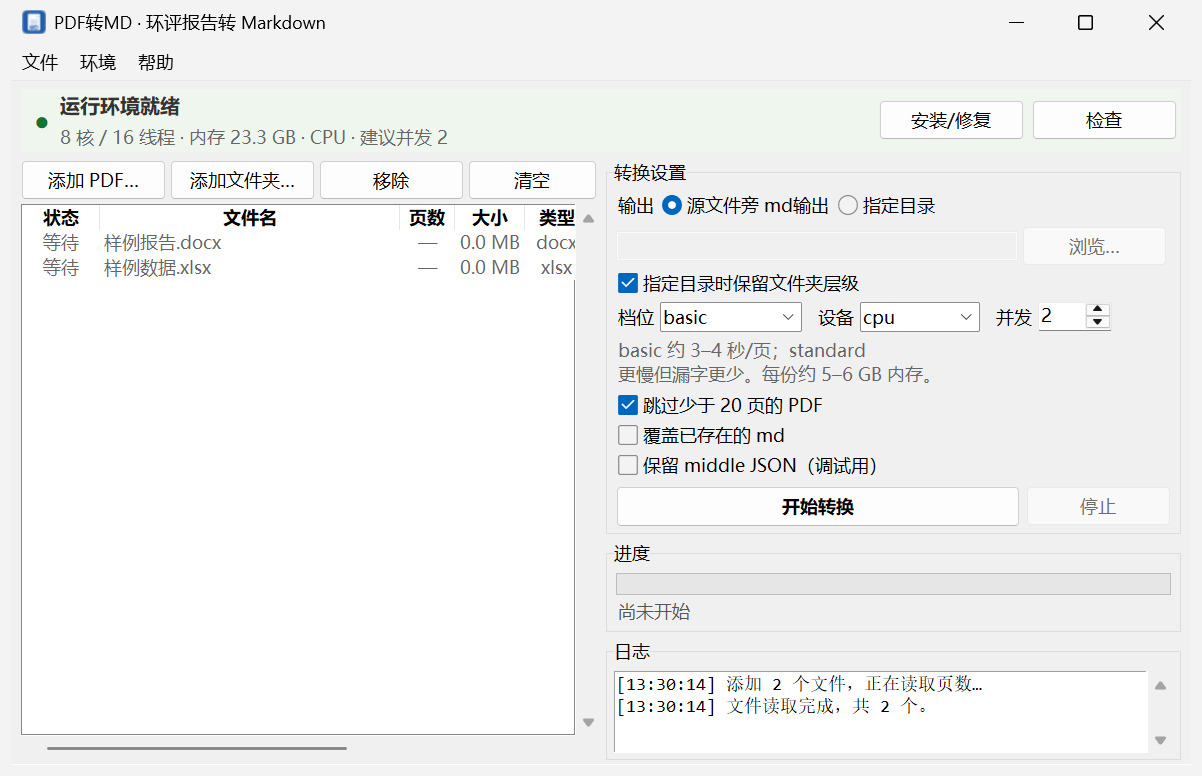
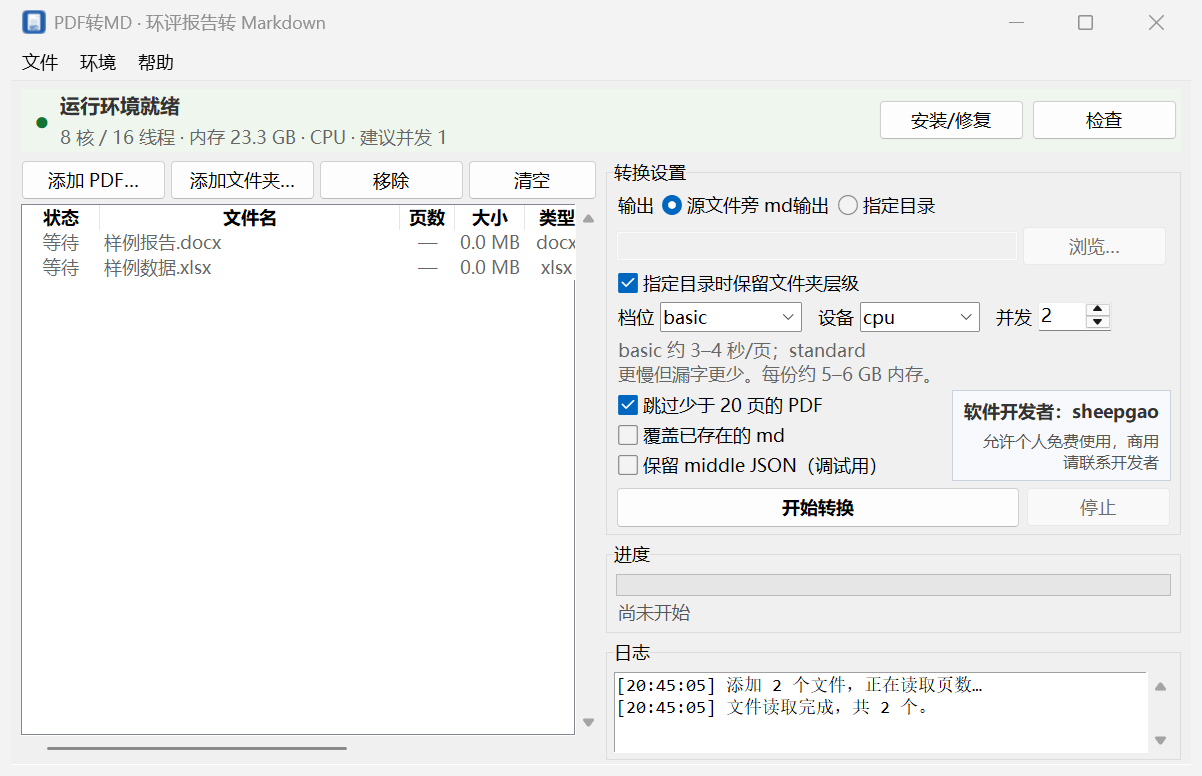
feat: add developer declaration and PolyForm Noncommercial license

diff --git a/gui/app.py b/gui/app.py
@@ -357,12 +357,27 @@ class App(tk.Tk):
         self.skip_var = tk.BooleanVar(value=True)
         self.overwrite_var = tk.BooleanVar(value=False)
         self.keep_json_var = tk.BooleanVar(value=False)
-        ttk.Checkbutton(st, text="跳过少于 20 页的 PDF",
-                        variable=self.skip_var).pack(anchor="w", padx=8)
-        ttk.Checkbutton(st, text="覆盖已存在的 md",
-                        variable=self.overwrite_var).pack(anchor="w", padx=8)
-        ttk.Checkbutton(st, text="保留 middle JSON（调试用）",
-                        variable=self.keep_json_var).pack(anchor="w", padx=8)
+        opts = ttk.Frame(st)
+        opts.pack(fill="x", padx=8)
+        left = ttk.Frame(opts)
+        left.pack(side="left", fill="y")
+        ttk.Checkbutton(left, text="跳过少于 20 页的 PDF",
+                        variable=self.skip_var).pack(anchor="w")
+        ttk.Checkbutton(left, text="覆盖已存在的 md",
+                        variable=self.overwrite_var).pack(anchor="w")
+        ttk.Checkbutton(left, text="保留 middle JSON（调试用）",
+                        variable=self.keep_json_var).pack(anchor="w")
+
+        decl = tk.Frame(opts, bg="#f7f9fc", highlightbackground="#c9d3e0",
+                        highlightthickness=1)
+        decl.pack(side="right", anchor="n", padx=(14, 0))
+        tk.Label(decl, text="软件开发者：sheepgao", bg="#f7f9fc",
+                 fg="#333", font=("Microsoft YaHei UI", 9, "bold"),
+                 anchor="e").pack(anchor="e", padx=8, pady=(5, 0))
+        tk.Label(decl, text="允许个人免费使用，商用请联系开发者",
+                 bg="#f7f9fc", fg="#555", font=("Microsoft YaHei UI", 8),
+                 anchor="e", justify="right", wraplength=190).pack(
+            anchor="e", padx=8, pady=(0, 5))
 
         btns = ttk.Frame(st)
         btns.pack(fill="x", padx=8, pady=6)

diff --git a/build_gui.py b/build_gui.py
@@ -20,7 +20,7 @@ def main():
     if (HERE / "使用说明_GUI.txt").exists():
         shutil.copyfile(HERE / "使用说明_GUI.txt", DIST / "使用说明.txt")
     # PyInstaller 的 datas 会进 _internal；给人和 AI 看的文档复制到包根目录
-    for name in ("AI调用说明.md", "AI调用示例.py", "API接口.md"):
+    for name in ("AI调用说明.md", "AI调用示例.py", "API接口.md", "LICENSE"):
         src = HERE / name
         if src.exists():
             shutil.copyfile(src, DIST / name)

diff --git a/README.md b/README.md
@@ -8,6 +8,14 @@
 - 全程本地处理，装好后可离线
 - 支持中文路径
 
+## 使用声明
+
+- **软件开发者：sheepgao**
+- **允许个人免费使用，商用请联系开发者**
+
+商用授权请通过 GitHub 仓库联系作者：<https://github.com/sheep-gy>。
+本软件采用 [PolyForm Noncommercial 1.0.0](LICENSE)，个人/非商业用途免费；商用需另行授权。
+
 ![主界面](docs/images/gui-main.png)
 
 <p align="center"><i>主界面：文件队列、输出设置、并发/设备、进度与日志</i></p>
@@ -322,6 +330,15 @@ pdf2md-eia/
 
 ---
 
-## License
+## License / 使用声明
 
-[MIT](LICENSE)
+本软件采用 **PolyForm Noncommercial 1.0.0**：
+
+- 个人、研究、教学、非商业组织可免费使用；
+- **商用必须联系开发者另行授权**；
+- 完整条款见 [LICENSE](LICENSE)。
+
+Required Notice: Copyright 2026 sheepgao
+
+软件开发者：**sheepgao**  
+商用授权请联系：<https://github.com/sheep-gy>

diff --git a/AI调用说明.md b/AI调用说明.md
@@ -221,3 +221,12 @@ venv 脚本记录绝对路径，换路径可能失效；不要只拷 exe。
 4. 不要把客户 PDF 发到未授权的第三方服务；本程序默认全程本地处理。
 5. 不要在公网暴露 `serve`；必须设 token。
 6. 不要调用内部 `_job` 子命令，除非你在改这个程序本身。
+
+
+---
+
+## 使用声明
+
+- 软件开发者：**sheepgao**
+- 允许个人免费使用，**商用请联系开发者**
+- 许可证：PolyForm Noncommercial 1.0.0；Required Notice: Copyright 2026 sheepgao
